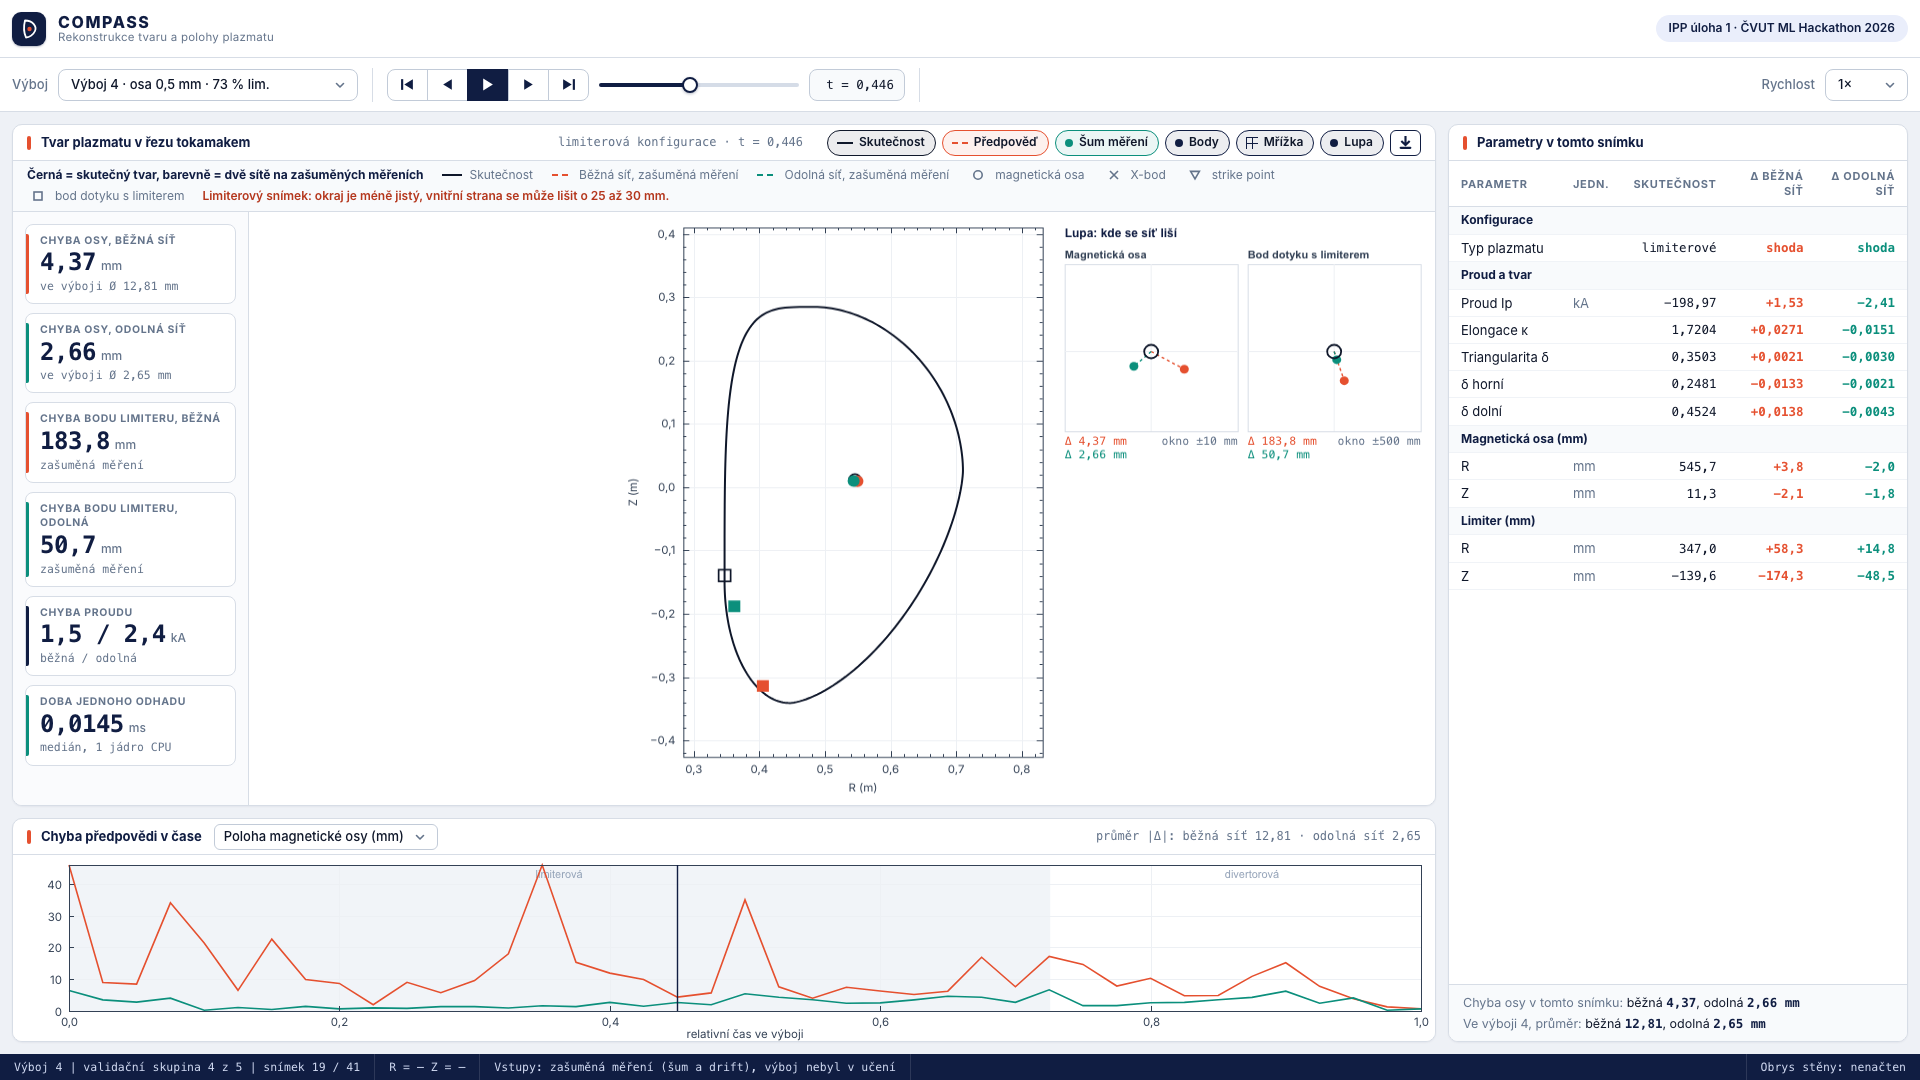
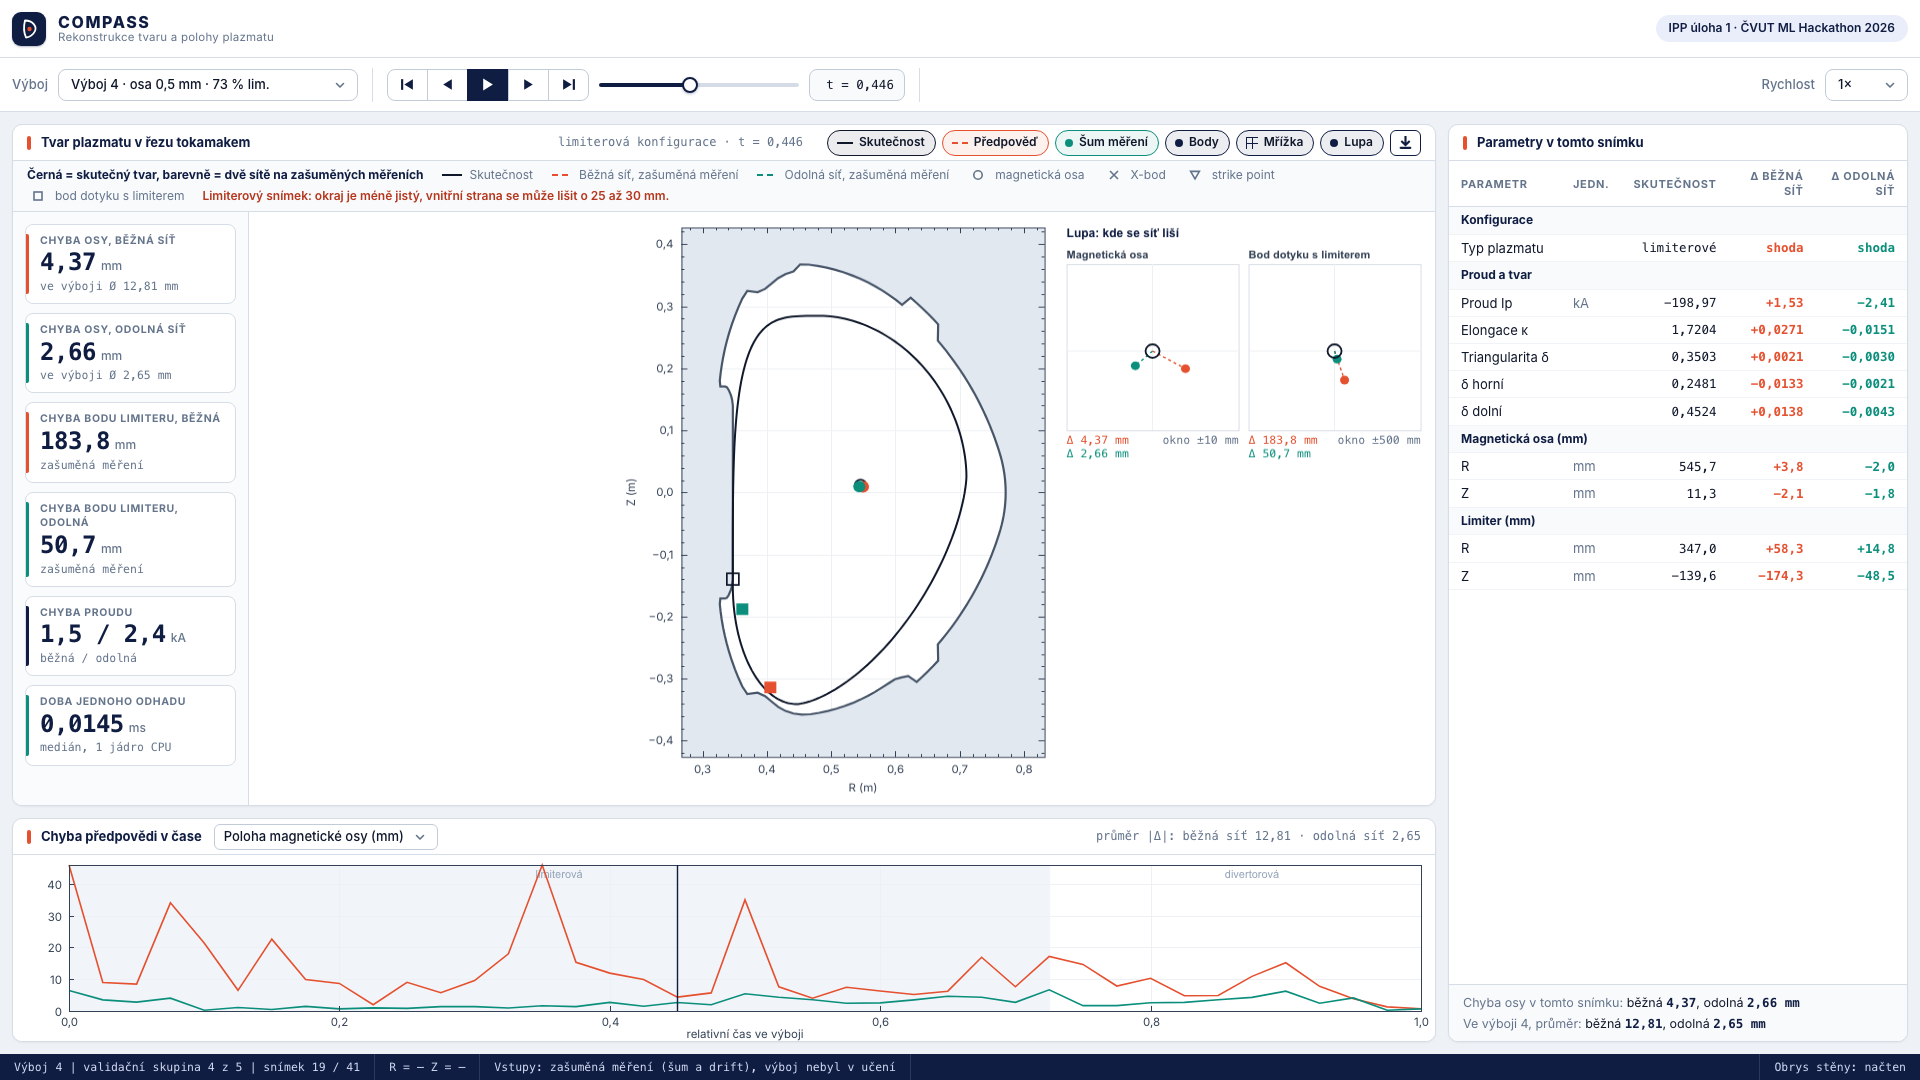
feat: draw the vacuum wall in the viewer and mark IMPL-10 done

diff --git a/docs/PLAN.md b/docs/PLAN.md
@@ -26,7 +26,7 @@ criteria are met **and verified** (`AGENTS.md` §15).
 | IMPL-7 | Camera model. Camera lane is the cloud session; GPT lane R only ran a local cross check | IN PROGRESS | REQ-B01, REQ-B03, REQ-B05 | Local run, 2 of 5 folds, `analysis/ipp1_camera_model.py --epochs 8 --folds 5 --run-folds 2`: camera R axis 1.54 mm (colour) and 1.53 mm (black and white) against 0.24 mm for magnetics on the same frames; fusion 1.21 mm, no gain over magnetics; plain model fragile to a 4 to 8 px shift (about 3x error), augmentation fixes it (2.0 mm); shift curve non monotonic, padding suspected. Notebook outputs still open |
 | IMPL-8 | Notebooks that run top to bottom, README and results table | IN PROGRESS | REQ-005 | `notebooks/01` to `05` written; clean run on a second machine not yet done. Main delivery risk before the Sat 02:30 checkpoint |
 | IMPL-9 | Presentation, video, motion reel | IN PROGRESS | REQ-006 | `presentation/` (outline, pitch script, deck v1); wording fixes for the slides, the outline and the pitch in `docs/claims-corrections.md`; video and reel not delivered |
-| IMPL-10 | Plasma shape viewer (offline page, true against predicted). Lane U | IN PROGRESS | Opens by double click, shows wall, boundary, key points, slider, errors | Browser screenshot checked; v0 checked in headless Chrome at 1920x1080 and 1280x720 (slider, 149 discharges, table, error chart). Open: wall outline (needs the owner's OK to download `COMPASS_stena.csv`), predicted boundary (needs `R_top`, `Z_top`, `R_bottom`, `Z_bottom`, `R_outer`, `Z_outer`, `R_inner`, `Z_inner`, `squareness_*` among the predicted targets); Fri 18:00: noise mode (`analysis/ipp1_oof_noise.py`, switch "Šum měření"; mean axis error 11.6 mm plain against 4.0 mm hardened, hardened better in 99.3 % of the 149 discharges), portable build `viewer/build.py` to `viewer/dist/index.html` (9.5 MB, tested from another folder, gitignored), stills `presentation/assets/viewer-*.png` and 15 s clip `out/viewer-demo.mp4` (1920x1080, 30 fps, outside git) made by `viewer/record.py`; Fri 18:30, QA fixes: predicted outline drawn (export reads `out/ipp1-predictions-full.csv`), toolbar no longer clipped (layer chips and PNG button moved to the stage header, checked at 1920, 1366 and 1280), legend moved to a bar above the plot, opens on a typical divertor frame, magnifier tiles with error windows (axis, X-point, strike points or limiter), latency tile 0.0145 ms, time-normalised playback (about 10 s at 1x), empty table groups hidden. Still open: the wall outline (needs the owner's OK to download `COMPASS_stena.csv`); Fri 19:00: Firefox slider rules (RP-14), a red note on limited frames (outline less certain, up to 25 to 30 mm on the inner side), predicted outline from `ipp1-predictions-full.csv`, portable file rebuilt (11.3 MB) and opened from another folder with DNS blocked (`--host-resolver-rules`), no external URL or network API in it, final stills and 15 s clip re-recorded. **Not DONE: the wall outline is still missing** because the owner has not approved the download of `COMPASS_stena.csv` in chat (a peer message cannot replace that); with it the acceptance criterion "shows wall" is met |
+| IMPL-10 | Plasma shape viewer (offline page, true against predicted). Lane U | DONE | Opens by double click, shows wall, boundary, key points, slider, errors | Browser screenshot checked; v0 checked in headless Chrome at 1920x1080 and 1280x720 (slider, 149 discharges, table, error chart). Open: wall outline (needs the owner's OK to download `COMPASS_stena.csv`), predicted boundary (needs `R_top`, `Z_top`, `R_bottom`, `Z_bottom`, `R_outer`, `Z_outer`, `R_inner`, `Z_inner`, `squareness_*` among the predicted targets); Fri 18:00: noise mode (`analysis/ipp1_oof_noise.py`, switch "Šum měření"; mean axis error 11.6 mm plain against 4.0 mm hardened, hardened better in 99.3 % of the 149 discharges), portable build `viewer/build.py` to `viewer/dist/index.html` (9.5 MB, tested from another folder, gitignored), stills `presentation/assets/viewer-*.png` and 15 s clip `out/viewer-demo.mp4` (1920x1080, 30 fps, outside git) made by `viewer/record.py`; Fri 18:30, QA fixes: predicted outline drawn (export reads `out/ipp1-predictions-full.csv`), toolbar no longer clipped (layer chips and PNG button moved to the stage header, checked at 1920, 1366 and 1280), legend moved to a bar above the plot, opens on a typical divertor frame, magnifier tiles with error windows (axis, X-point, strike points or limiter), latency tile 0.0145 ms, time-normalised playback (about 10 s at 1x), empty table groups hidden. Still open: the wall outline (needs the owner's OK to download `COMPASS_stena.csv`); Fri 19:00: Firefox slider rules (RP-14), a red note on limited frames (outline less certain, up to 25 to 30 mm on the inner side), predicted outline from `ipp1-predictions-full.csv`, portable file rebuilt (11.3 MB) and opened from another folder with DNS blocked (`--host-resolver-rules`), no external URL or network API in it, final stills and 15 s clip re-recorded. Fri 19:15: the owner approved the wall download; the Lead saved `data/raw/organizers/COMPASS_stena.csv` (191 points, public machine geometry); the viewer now draws the vacuum wall and limiter frames touch it (checked by screenshot at 1920x1080 and 1280x720); portable file rebuilt (11.3 MB), stills and 15 s clip re-recorded. All acceptance criteria met |
 | IMPL-11 | Reproducibility check on a second machine; presentation outline in Czech. Lane K | IN PROGRESS | README commands work; `presentation/outline.md` exists with numbers only from `results/` | Run log; the file. Split of the extra items: deck (`presentation/deck/slides.pptx`) K-Repro-Opus; rehearsal notes and glossary (`presentation/slovnicek.md`) K-Sonnet; deck v1 b9a29d9, waits for pitch-script.md and presentation/assets/ |
 | IMPL-12 | Error against the uneven data distribution (REQ-007) and a drop-column input ranking (REQ-004). Terminal agent bladed-55, lane R items 1 and 4 | IN PROGRESS | A REQ-007 table by configuration, current polarity, target value quantile and position in the discharge; a backward-elimination ranking computed on training discharges only | `results/ipp1-distribution.md` (`HACKATHON_HOME=/Users/bladed/Documents/AIprogramy/hackathon ~/.venvs/hackathon/bin/python -I analysis/ipp1_distribution.py`): pooled over the 42,972 out-of-fold rows. The limited rows are 44.2 % of the rows and carry 91.9 % of the squared R-axis error (MAE 0.553 against 0.237 mm diverted); the 16 positive-current discharges are 7.4 % of the rows and carry 77.8 % (MAE 1.73 against 0.269 mm); the last 2 % of a discharge is 2.2 % of the rows and 26.9 % (MAE 1.70 mm against 0.321 mm in the middle); `R_limiter` in the first 2 % is 52.6 mm against 8.28 mm in the middle, 40.5 % of its squared error on 4.9 % of its rows. The script asserts its own metrics equal `ipp1_common.score_extended` on the full row set. Ranking (REQ-004): pending |
 | IMPL-13 | Unusual shapes, leave one family out (REQ-B08). Terminal agent bladed-85, lane R item 2 | DONE | Error on held-out families of shapes against the random-fold error on the same discharges | `results/ipp1-unusual-shapes.md`, figure; `HACKATHON_HOME=/Users/bladed/Documents/AIprogramy/hackathon ~/.venvs/hackathon/bin/python -I analysis/ipp1_unusual_shapes.py`. Result: error 1.0 to 3.0 times larger, typically 1.2 to 2.4 times (R axis 0.68 to 1.63 mm on the 23 lowest elongation discharges); no collapse. Limits: only 18 truly unusual discharges, never held out alone; the random baseline is optimistic |
